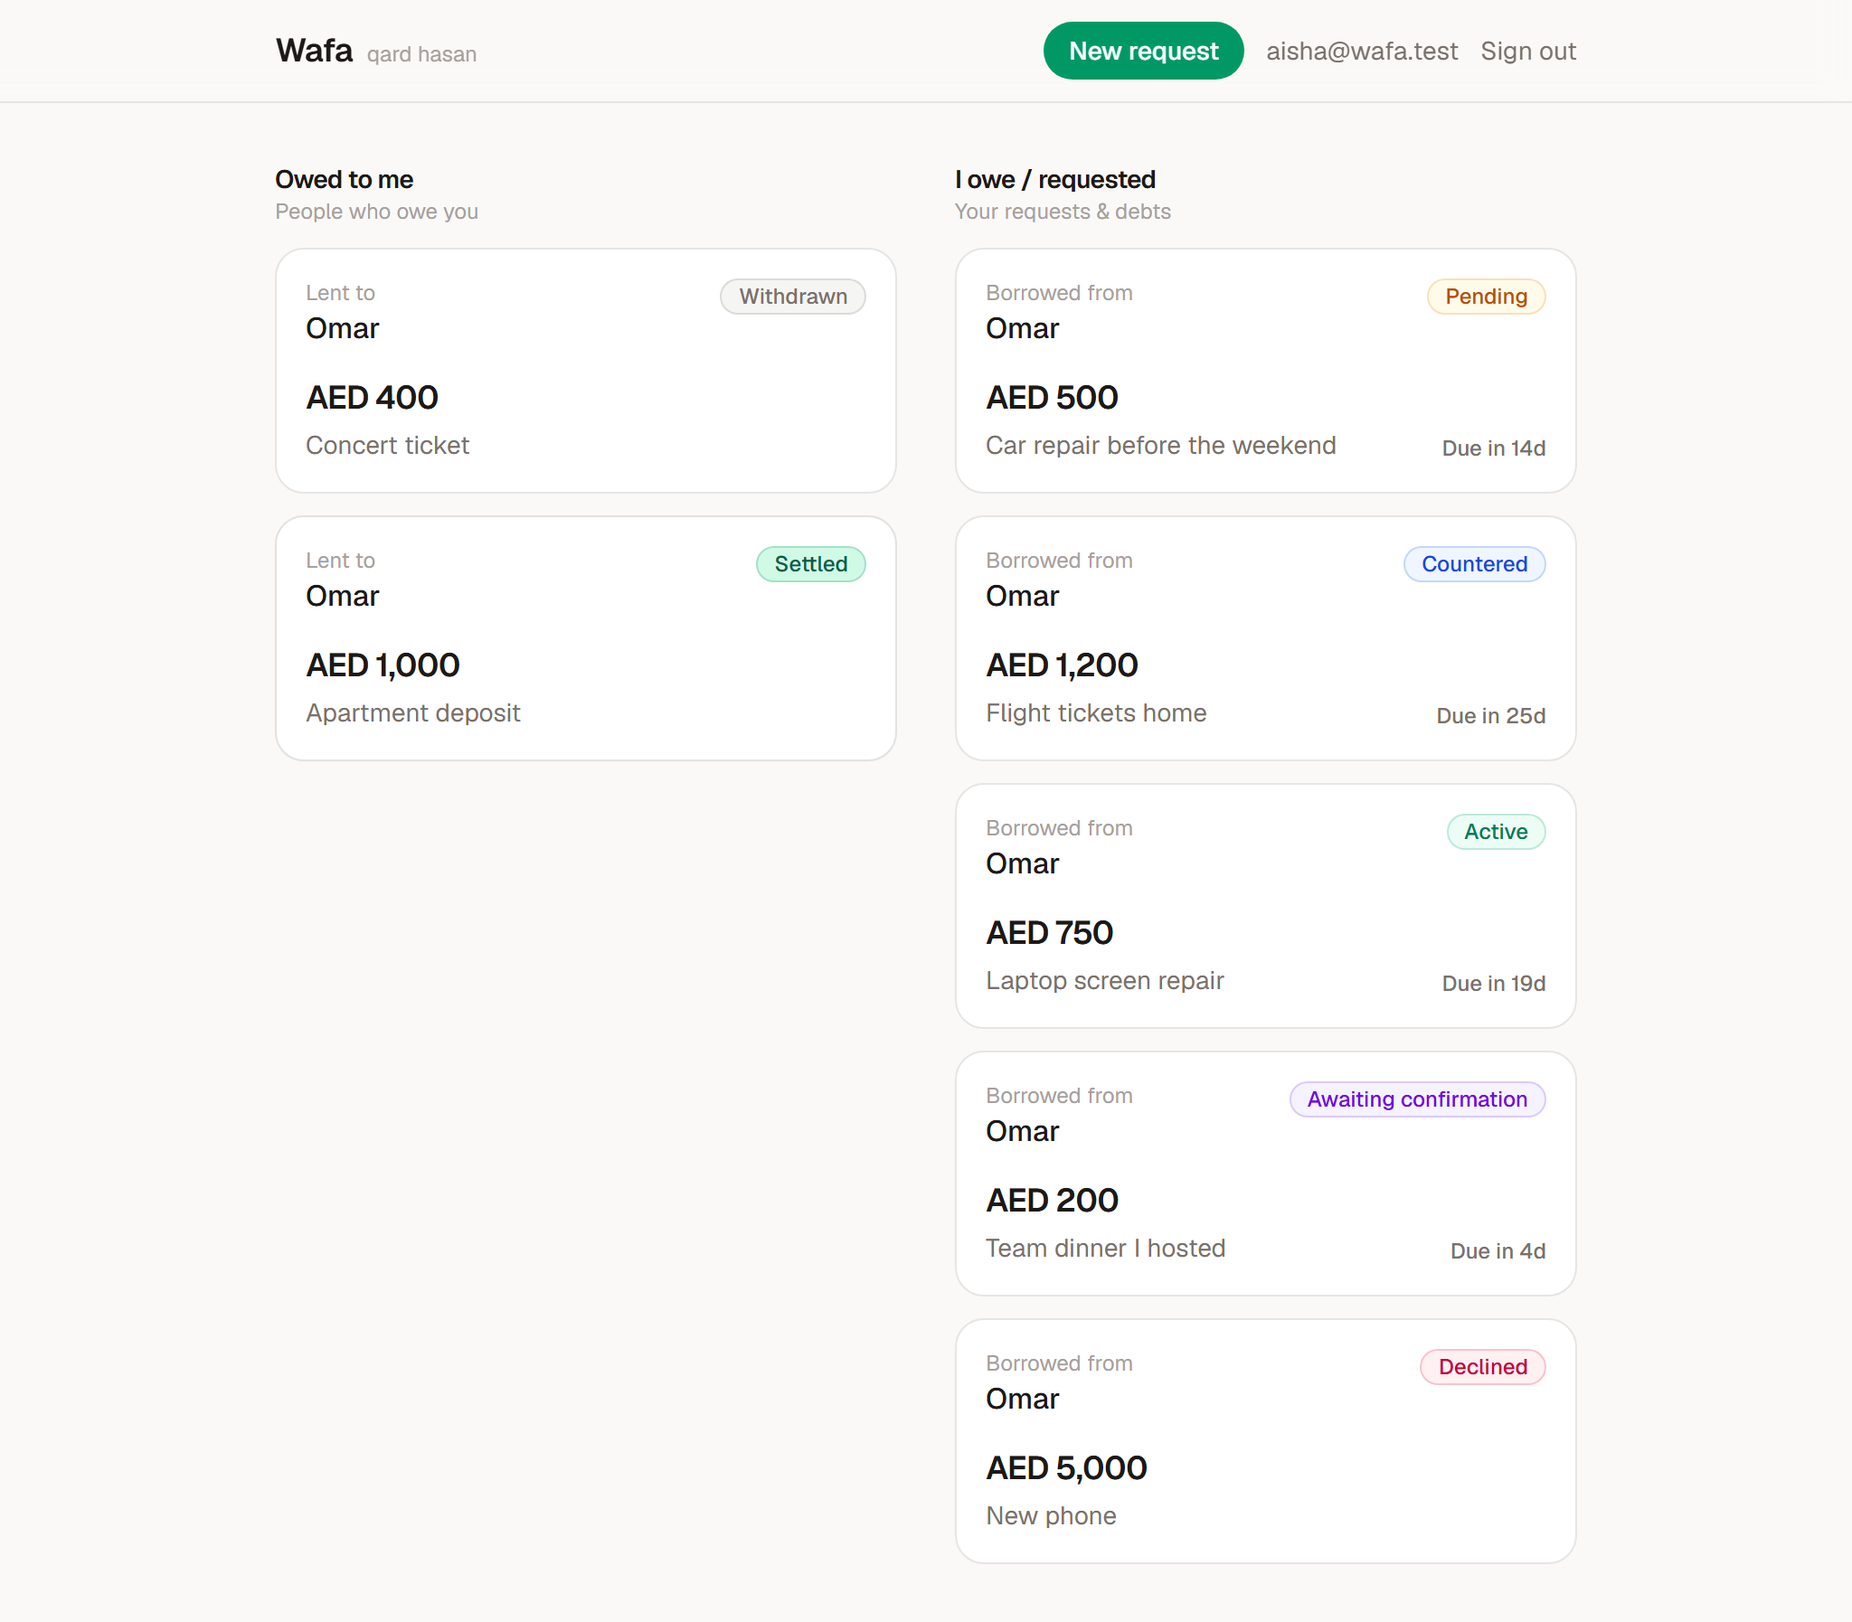
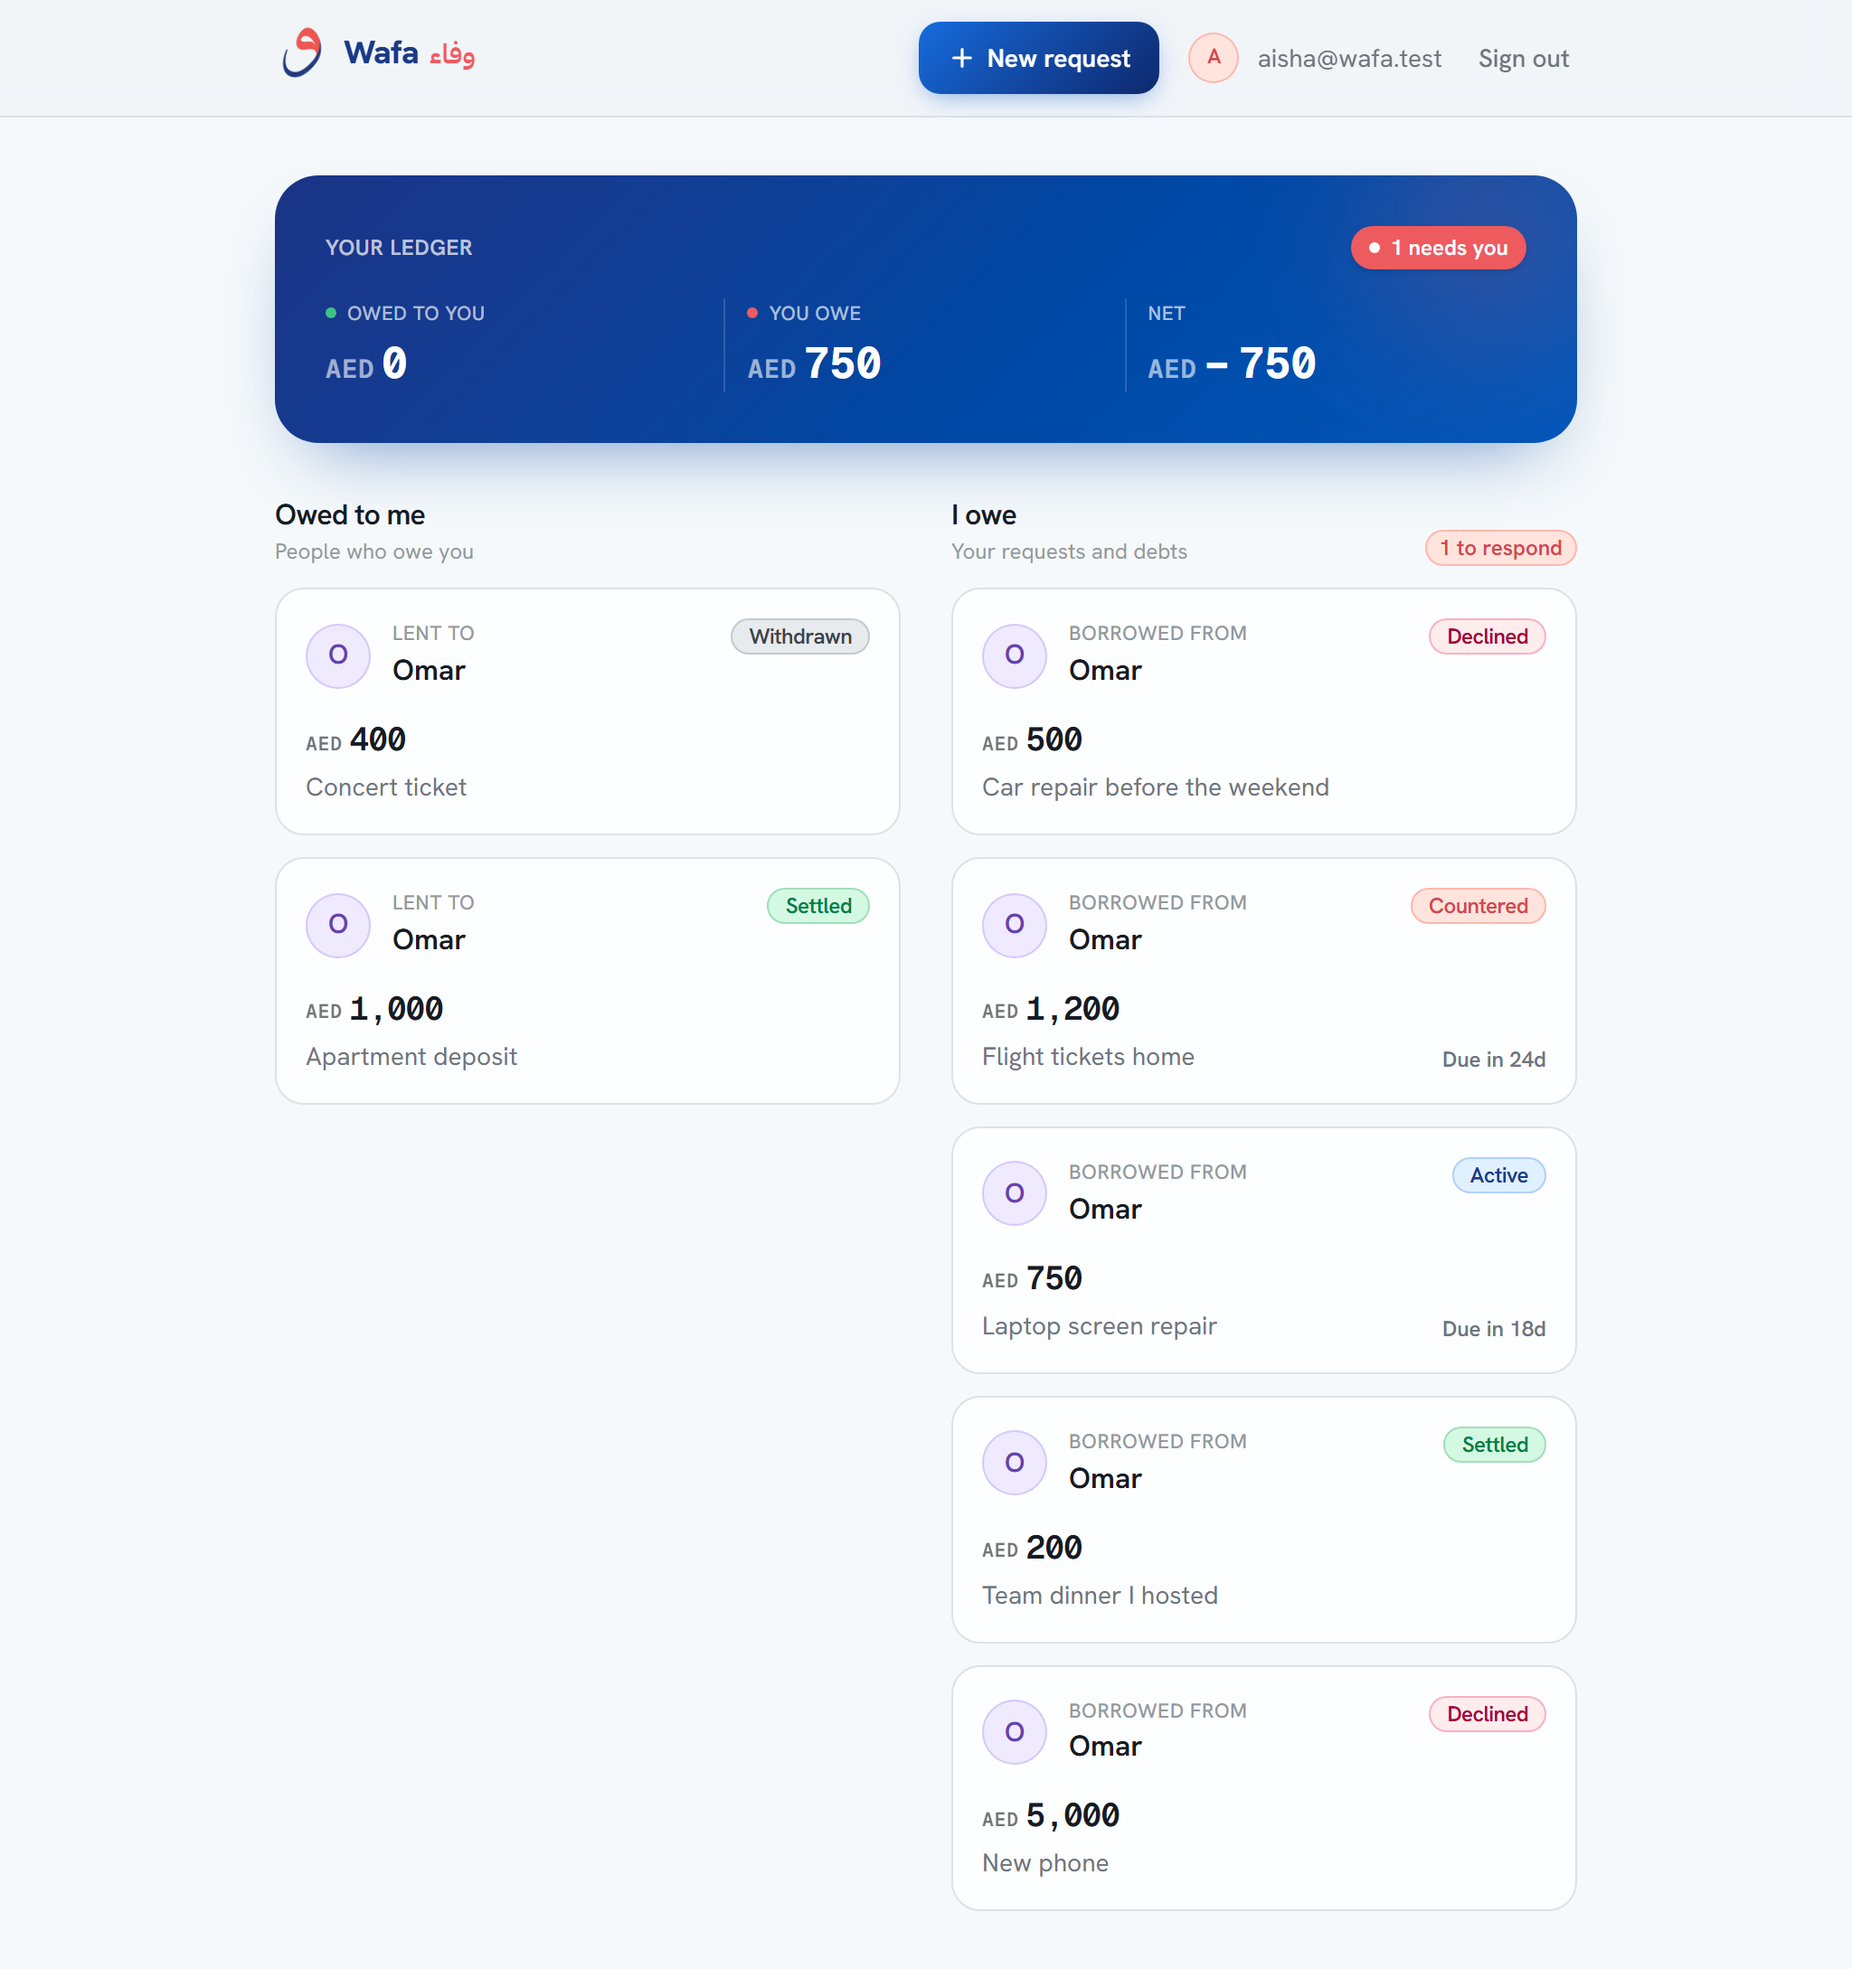
Refresh README and screenshots for the redesign
Recapture every screenshot against the deployed app so they show the
bright redesign, add a cropped landing hero as the lead image, and make
the demo copy data-agnostic so it stays accurate as the live demo
drifts.

Add a Design section documenting the system (palette, type, status
colours, instant loading UX), linking DESIGN.md and PRODUCT.md.

Harden scripts/screenshots.mjs: independent per-section runs, surfaced
auth errors with debug frames, and waits for real content so route
loading skeletons are never captured.

diff --git a/README.md b/README.md
@@ -19,13 +19,14 @@ regulatory scope, while still solving the real pain (the *tracking*, not the tra
 - **URL:** **https://wafa.7mxd.me** (also reachable at `https://wafa-lake.vercel.app`)
 - **Test accounts** (password `Wafa-demo-1` for both — or use the one-tap buttons on the sign-in page):
 
-  | Name | Email | Role in the seed data |
-  |------|-------|-----------------------|
-  | Aisha | `aisha@wafa.test` | mostly the borrower; lender on a couple |
-  | Omar | `omar@wafa.test` | the lender with a pending request to review |
+  | Name | Email |
+  |------|-------|
+  | Aisha | `aisha@wafa.test` |
+  | Omar | `omar@wafa.test` |
 
-Sign in as **Omar** to see the "1 to review" approver inbox; sign in as **Aisha** to see an active
-loan with the lender's IBAN to copy and a "I've transferred" button.
+Both accounts are seeded with loans on both sides (as borrower and as lender). Signing in as either
+one lets you walk the full request → approve/counter → transfer → confirm flow from both points of
+view.
 
 ## The flow
 
@@ -44,9 +45,11 @@ Every transition writes an immutable row to an audit timeline both parties can s
 
 ## Screenshots
 
-| Approver dashboard | Review a request | AI-assisted request |
+![Wafa landing — a promise, kept.](screenshots/00-landing-hero.png)
+
+| The dashboard ledger | A loan and its timeline | AI-assisted request |
 |---|---|---|
-| ![dashboard](screenshots/02-dashboard-omar.png) | ![review](screenshots/03-loan-pending-omar.png) | ![ai](screenshots/06-new-ai-filled.png) |
+| ![dashboard ledger](screenshots/02-dashboard-omar.png) | ![a loan in detail](screenshots/03-loan-pending-omar.png) | ![AI-assisted request](screenshots/06-new-ai-filled.png) |
 
 ## Tech stack
 
@@ -54,6 +57,26 @@ Every transition writes an immutable row to an audit timeline both parties can s
 - **Supabase** — Postgres, Auth, and Row-Level Security
 - **Claude Haiku 4.5** via **OpenRouter** for one light, server-side AI touch
 - **Tailwind CSS v4**
+
+## Design
+
+Wafa is bilingual by identity — **Wafa / وفاء** (faithfulness, keeping a promise) — and the interface
+is built to feel warm and trustworthy, not like a banking console.
+
+- **A fresh, bright canvas** with deep-blue + coral brand DNA and a joyful accent palette (teal, amber,
+  violet, mint), spent in committed colour moments — a gradient ledger band, mesh hero backdrops,
+  gradient CTAs — rather than spread evenly. Colours are OKLCH; neutrals carry a faint cool tint.
+- **Three typefaces, each with a job:** Hanken Grotesk (display + body), IBM Plex Sans Arabic (the وفاء
+  wordmark, `dir="rtl"`), and Geist Mono for every figure and timestamp (`tabular-nums`), so money
+  lines up like a ledger.
+- **Status speaks in colour:** pending → amber, countered → coral (your move), active → blue, awaiting
+  confirmation → violet, settled → mint.
+- **Instant, reduced-motion-safe UX:** every route paints an on-brand skeleton the moment you click it
+  (App Router `loading.tsx`), the per-request auth check is deduped, and all motion is disabled under
+  `prefers-reduced-motion`.
+
+The full system — tokens, typography, motion, and the project-specific bans — lives in
+[`DESIGN.md`](DESIGN.md); the product thinking and flow rationale live in [`PRODUCT.md`](PRODUCT.md).
 
 ## Architecture & security
 
